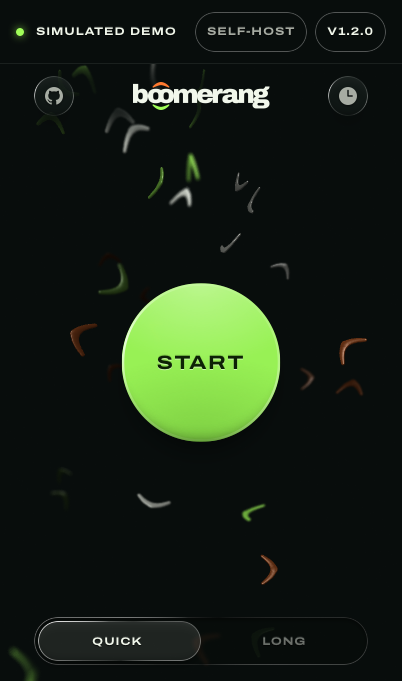
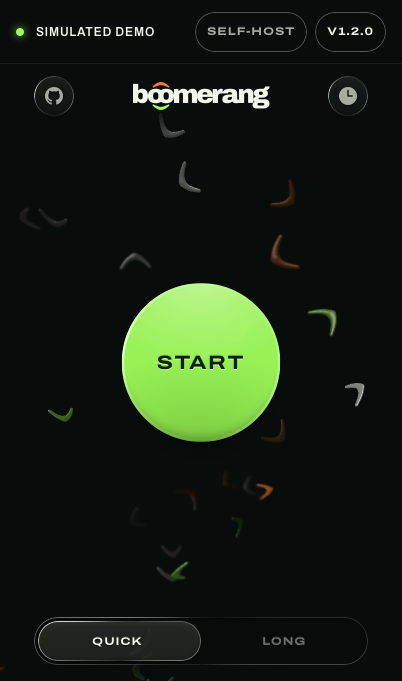
fix: set the landing page's demo note in the app's label style
The note used the keys' wide label face beside the small capitals, a
pairing the app never makes. Both lines are now the app's labels, and
the key face stays inside the keys.

diff --git a/site/routes/+page.svelte b/site/routes/+page.svelte
@@ -66,13 +66,12 @@
 </svelte:head>
 
 <div class="flex h-dvh flex-col">
-  <!-- The bar is the app's own chrome: its key labels, its small capitals and its secondary keys. -->
+  <!-- The bar is the app's own chrome: the note in the small capitals of its labels, the links as its secondary keys. -->
   <header class="flex h-16 flex-none items-center justify-between gap-4 border-b border-ink/8 px-4 sm:px-6">
     <p class="m-0 flex min-w-0 items-center gap-3" data-testid="demo-note">
       <span class="size-2 flex-none rounded-full bg-lime shadow-[0_0_10px_rgba(161,255,89,0.8)]" aria-hidden="true"></span>
-      <span class="flex-none text-ink {TRIM} {KEY_LABEL}">Simulated demo</span>
-      <span class="hidden h-3.5 w-px flex-none bg-ink/15 md:block" aria-hidden="true"></span>
-      <span class="hidden truncate text-ink-3 md:block {TRIM} {LABEL}">Not a measurement of your connection</span>
+      <span class="flex-none text-ink {TRIM} {LABEL}">Simulated demo</span>
+      <span class="ml-2 hidden truncate text-ink-3 md:block {TRIM} {LABEL}">Not a measurement of your connection</span>
     </p>
     <nav class="flex flex-none items-center gap-2" aria-label="Boomerang">
       <a class={KEY} href={GUIDE}><span class="{TRIM} {KEY_LABEL}">Self-host</span></a>
